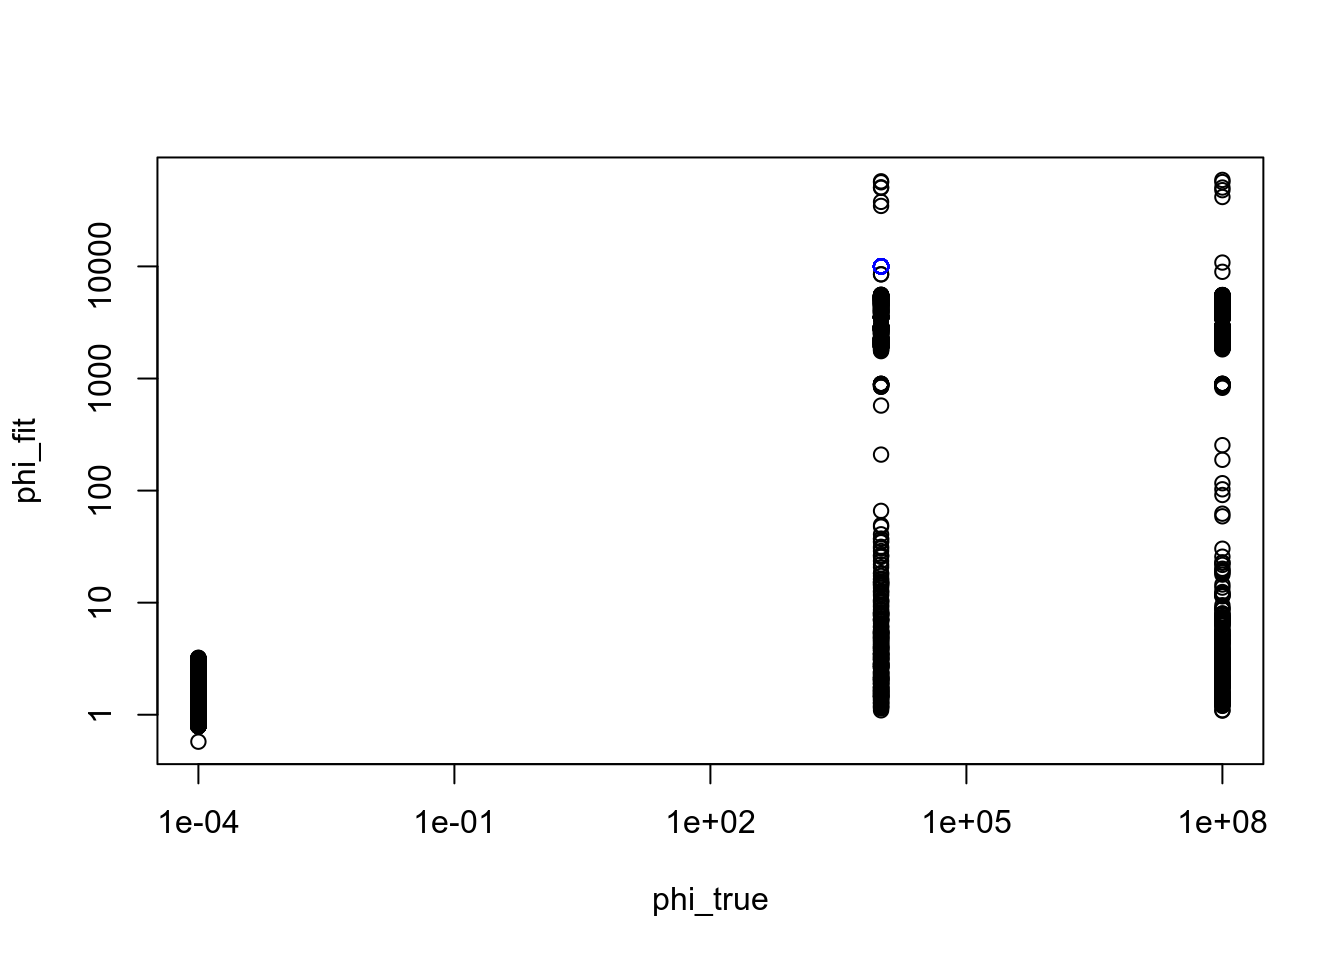
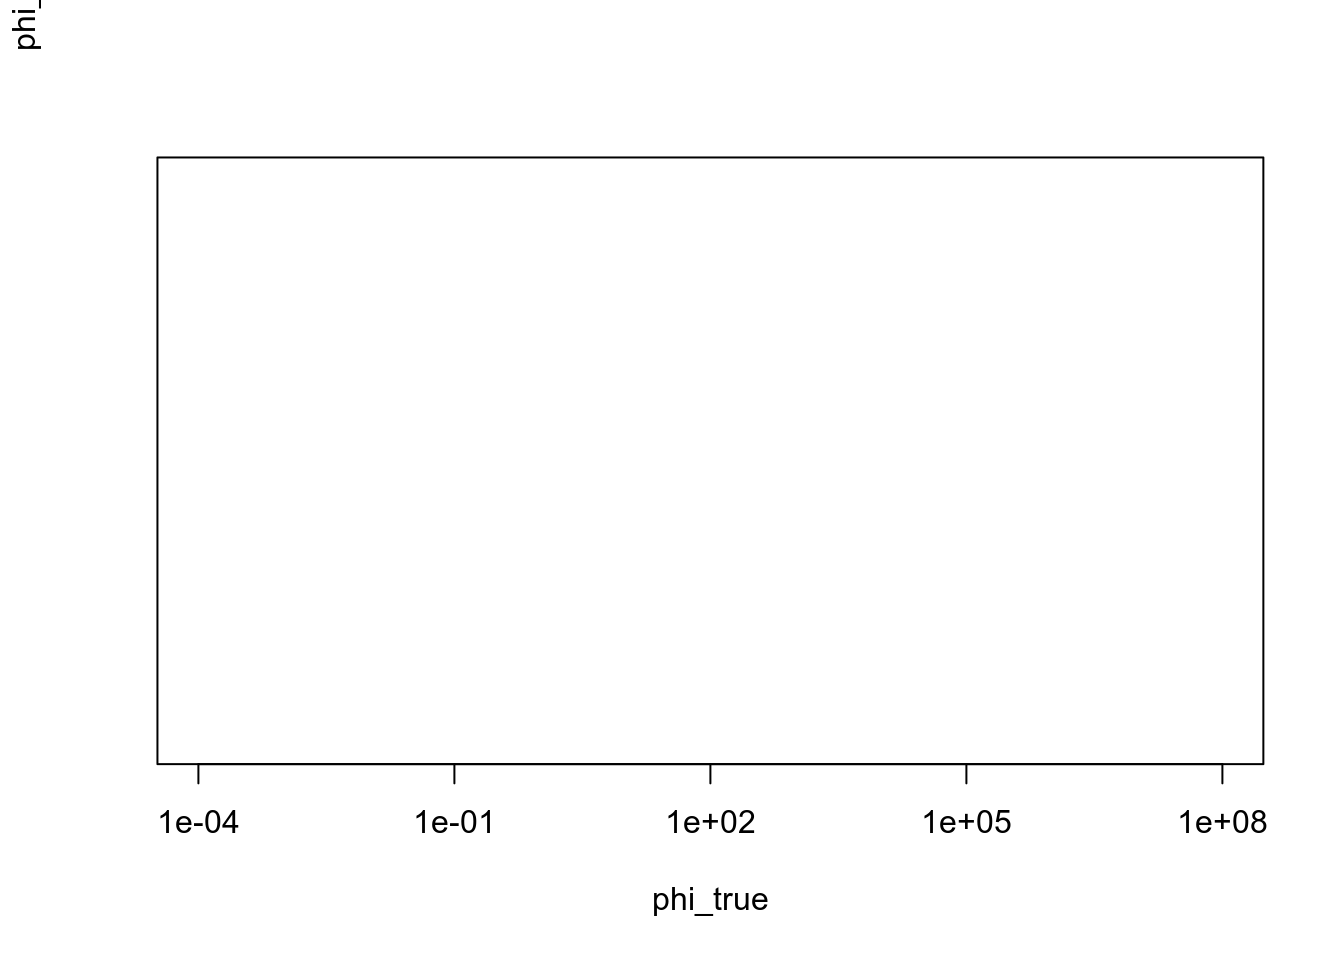
Build site.

diff --git a/docs/experiment_nb_means2.html b/docs/experiment_nb_means2.html
@@ -509,10 +509,10 @@ unnamed-chunk-3
 <div class="panel panel-default">
 <div class="panel-heading">
 <p class="panel-title">
-<a data-toggle="collapse" data-parent="#workflowr-checks" href="#strongRepositoryversionstrongahrefhttpsgithubcomzihao12ebpmfdemotree49bdd58414341abf7a5027f70bf17a941744f157targetblank49bdd58a"> <span class="glyphicon glyphicon-ok text-success" aria-hidden="true"></span> <strong>Repository version:</strong> <a href="https://github.com/zihao12/ebpmf_demo/tree/49bdd58414341abf7a5027f70bf17a941744f157" target="_blank">49bdd58</a> </a>
+<a data-toggle="collapse" data-parent="#workflowr-checks" href="#strongRepositoryversionstrongahrefhttpsgithubcomzihao12ebpmfdemotreea0839eeae43f53efd46aa9c0da46663e862759b4targetblanka0839eea"> <span class="glyphicon glyphicon-ok text-success" aria-hidden="true"></span> <strong>Repository version:</strong> <a href="https://github.com/zihao12/ebpmf_demo/tree/a0839eeae43f53efd46aa9c0da46663e862759b4" target="_blank">a0839ee</a> </a>
 </p>
 </div>
[2 lines of base64/hex data omitted]
 <div class="panel-body">
 <p>
 Great! You are using Git for version control. Tracking code development and connecting the code version to the results is critical for reproducibility. The version displayed above was the version of the Git repository at the time these results were generated. <br><br> Note that you need to be careful to ensure that all relevant files for the analysis have been committed to Git prior to generating the results (you can use <code>wflow_publish</code> or <code>wflow_git_commit</code>). workflowr only checks the R Markdown file, but you know if there are other scripts or data files that it depends on. Below is the status of the Git repository when the results were generated:
@@ -598,6 +598,40 @@ Message
 </tr>
 </thead>
 <tbody>
+<tr>
+<td>
+Rmd
+</td>
+<td>
+<a href="https://github.com/zihao12/ebpmf_demo/blob/a0839eeae43f53efd46aa9c0da46663e862759b4/analysis/experiment_nb_means2.Rmd" target="_blank">a0839ee</a>
+</td>
+<td>
+zihao12
+</td>
+<td>
+2020-04-03
+</td>
+<td>
+add starting from truth
+</td>
+</tr>
+<tr>
+<td>
+html
+</td>
+<td>
+<a href="https://rawcdn.githack.com/zihao12/ebpmf_demo/1a31c20af7195f39023cf5bd7dd1720999251b0b/docs/experiment_nb_means2.html" target="_blank">1a31c20</a>
+</td>
+<td>
+zihao12
+</td>
+<td>
+2020-04-03
+</td>
+<td>
+Build site.
+</td>
+</tr>
 <tr>
 <td>
 Rmd
@@ -1407,6 +1441,17 @@ Date
 <tbody>
 <tr>
 <td>
+<a href="https://github.com/zihao12/ebpmf_demo/blob/1a31c20af7195f39023cf5bd7dd1720999251b0b/docs/figure/experiment_nb_means2.Rmd/unnamed-chunk-5-1.png" target="_blank">1a31c20</a>
+</td>
+<td>
+zihao12
+</td>
+<td>
+2020-04-03
+</td>
+</tr>
+<tr>
+<td>
 <a href="https://github.com/zihao12/ebpmf_demo/blob/972e127aaa193524022da5522bbd955135ded4a4/docs/figure/experiment_nb_means2.Rmd/unnamed-chunk-5-1.png" target="_blank">972e127</a>
 </td>
 <td>
@@ -1535,8 +1580,9 @@ zihao12
 <h2>look at <span class="math inline">\(\Phi_{jk}\)</span></h2>
 <pre class="r"><code>Phi_2 = 1 / exper$fit_init_random2$fitted_g$A
 Phi_from_true = 1 / exper$fit_init_truth$fitted_g$A
-plot(exper$Phi, Phi_2, log = &quot;xy&quot;, xlab = &quot;phi_true&quot;, ylab = &quot;phi_fit&quot;)
-points(exper$Phi, Phi_from_true, col = &quot;blue&quot;)</code></pre>
+plot(exper$Phi, Phi_2, log = &quot;xy&quot;, xlab = &quot;phi_true&quot;, ylab = &quot;phi_fit&quot;, ylim = c(0, 1e+8))</code></pre>
+<pre><code>Warning in plot.window(...): nonfinite axis limits [GScale(-inf,8,2, .); log=1]</code></pre>
+<pre class="r"><code>points(exper$Phi, Phi_from_true, col = &quot;blue&quot;)</code></pre>
 <p><img src="figure/experiment_nb_means2.Rmd/unnamed-chunk-6-1.png" width="672" style="display: block; margin: auto;" /></p>
 <p>
 <button type="button" class="btn btn-default btn-xs btn-workflowr btn-workflowr-fig" data-toggle="collapse" data-target="#fig-unnamed-chunk-6-1">
@@ -1560,6 +1606,17 @@ Date
 </tr>
 </thead>
 <tbody>
+<tr>
+<td>
+<a href="https://github.com/zihao12/ebpmf_demo/blob/1a31c20af7195f39023cf5bd7dd1720999251b0b/docs/figure/experiment_nb_means2.Rmd/unnamed-chunk-6-1.png" target="_blank">1a31c20</a>
+</td>
+<td>
+zihao12
+</td>
+<td>
+2020-04-03
+</td>
+</tr>
 <tr>
 <td>
 <a href="https://github.com/zihao12/ebpmf_demo/blob/972e127aaa193524022da5522bbd955135ded4a4/docs/figure/experiment_nb_means2.Rmd/unnamed-chunk-6-1.png" target="_blank">972e127</a>
